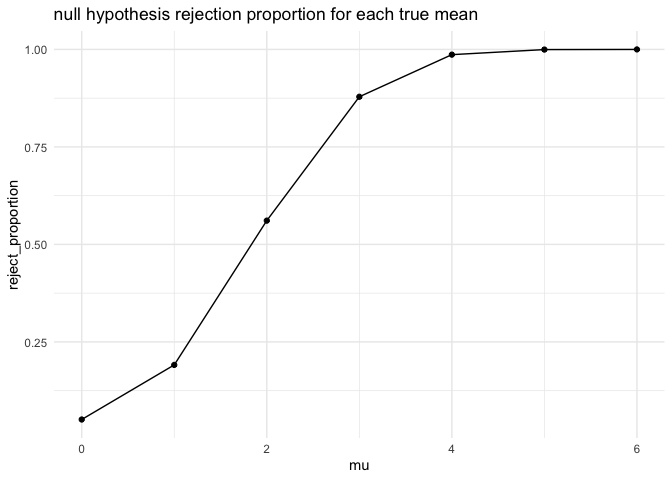
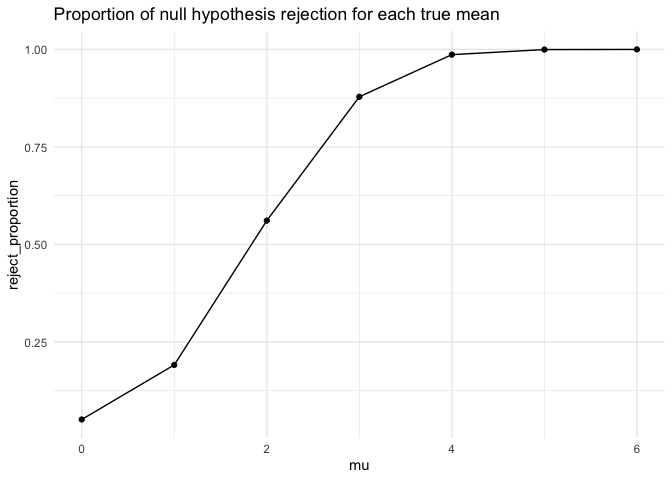
problem 3 - made 2 plots comparing avg. mean estimate and true mean

Changed region(s): [[0.0625, 0.0, 0.75, 0.0625]]

diff --git a/p8105_hw5_ym2770.md b/p8105_hw5_ym2770.md
@@ -184,9 +184,44 @@ sim_df %>%
   ggplot(aes(x = mu, y = reject_proportion)) +
   geom_point() +
   geom_line() +
-  labs(title = "null hypothesis rejection proportion for each true mean")
+  labs(title = "Proportion of null hypothesis rejection for each true mean")
 ```
 
     ## `summarise()` ungrouping output (override with `.groups` argument)
 
 ![](p8105_hw5_ym2770_files/figure-gfm/unnamed-chunk-11-1.png)<!-- -->
+
+A plot showing the average estimate of mean against the true mean
+
+``` r
+sim_df %>% 
+  group_by(mu) %>% 
+  summarise(average_estimate = mean(estimate)) %>% 
+  ggplot(aes(x = mu, y = average_estimate)) +
+  geom_point() +
+  labs(title = "Average mean estimate versus true mean")
+```
+
+    ## `summarise()` ungrouping output (override with `.groups` argument)
+
+![](p8105_hw5_ym2770_files/figure-gfm/unnamed-chunk-12-1.png)<!-- -->
+
+A plot showing the average estimate of mean against the true mean only
+in samples for which the null was rejected.
+
+``` r
+sim_df %>% 
+  filter(p.value < 0.05) %>% 
+  group_by(mu) %>% 
+  summarise(average_estimate = mean(estimate)) %>% 
+  ggplot(aes(x = mu, y = average_estimate)) +
+  geom_point() +
+  labs(title = "Average mean estimate vs. true mean among samples that null was rejected")
+```
+
+    ## `summarise()` ungrouping output (override with `.groups` argument)
+
+![](p8105_hw5_ym2770_files/figure-gfm/unnamed-chunk-13-1.png)<!-- -->
+
+Is the sample average of μ̂ across tests for which the null is rejected
+approximately equal to the true value of μ? Why or why not?
